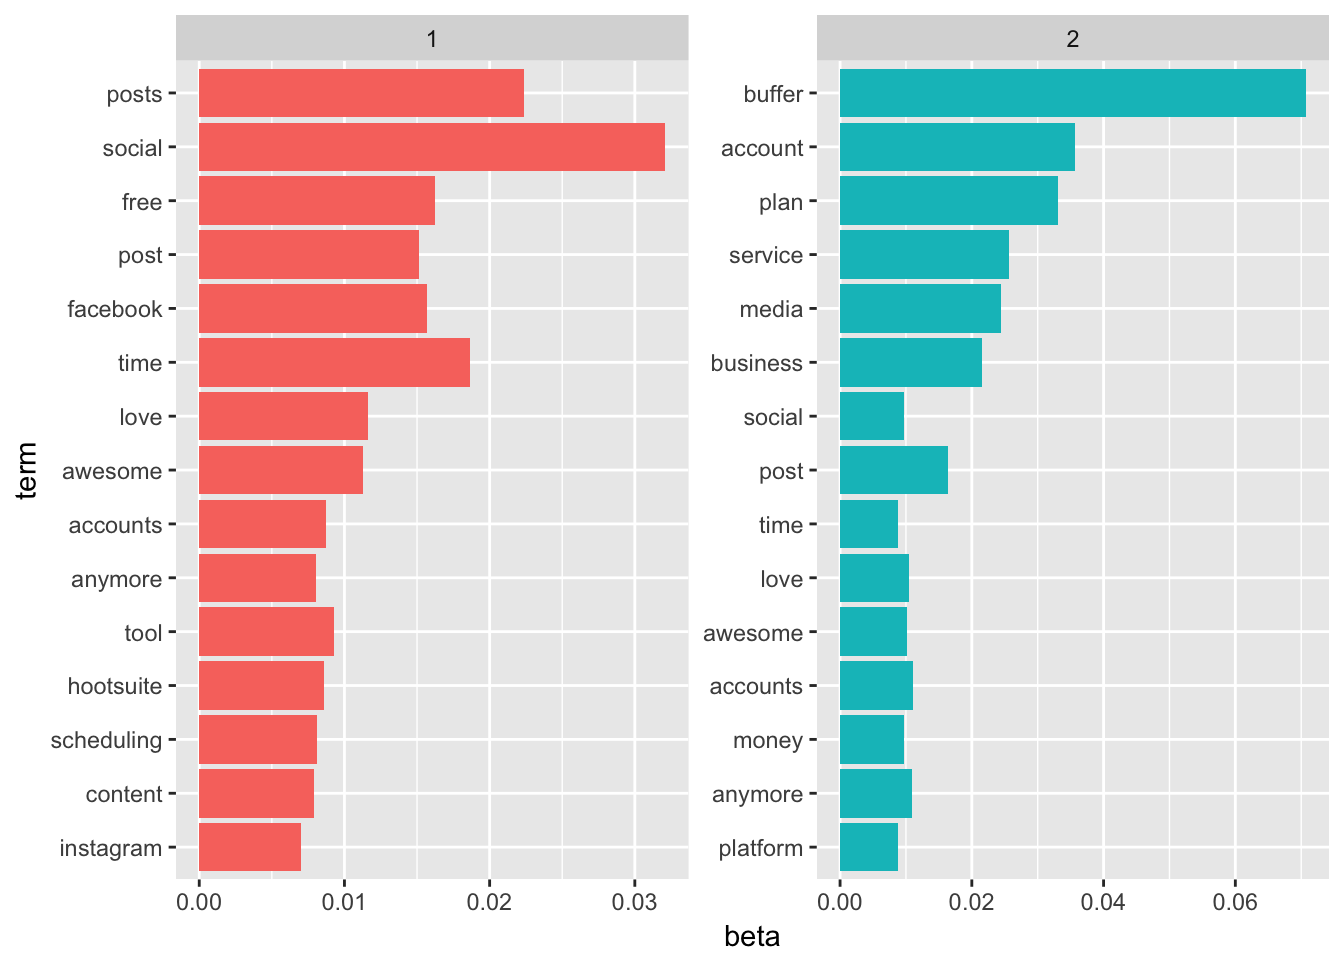
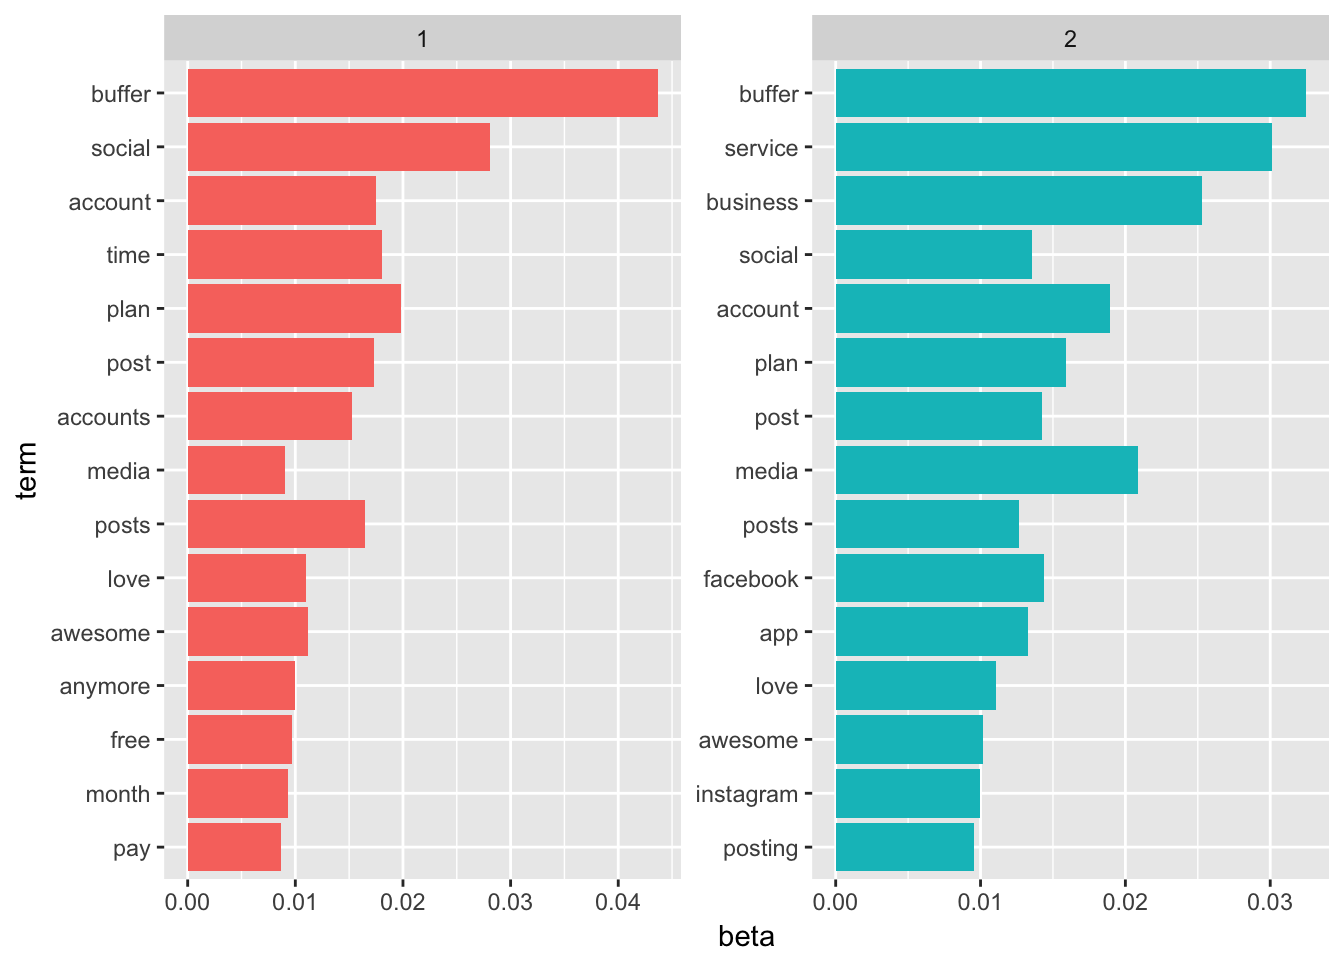
Blog images

diff --git a/content/blog/churn-survey-text-analysis.html b/content/blog/churn-survey-text-analysis.html
@@ -94,12 +94,12 @@ head(segment_words)</code></pre>
 <pre><code>## # A tibble: 6 x 4
 ##                       type    word     n total
 ##                     &lt;fctr&gt;   &lt;chr&gt; &lt;int&gt; &lt;int&gt;
-## 1 awesome_downgrade_survey  buffer   492 12428
-## 2 awesome_downgrade_survey  social   284 12428
-## 3 awesome_downgrade_survey    plan   259 12428
-## 4 awesome_downgrade_survey service   215 12428
-## 5 awesome_downgrade_survey   media   213 12428
-## 6 awesome_downgrade_survey    time   198 12428</code></pre>
+## 1 awesome_downgrade_survey  buffer   492 12440
+## 2 awesome_downgrade_survey  social   284 12440
+## 3 awesome_downgrade_survey    plan   259 12440
+## 4 awesome_downgrade_survey service   215 12440
+## 5 awesome_downgrade_survey   media   213 12440
+## 6 awesome_downgrade_survey    time   198 12440</code></pre>
 <p>There is one row in this data frame for each word-segment combination. <code>n</code> is the number of times that word is used for that segment and total is the total number of words in the segment’s comments. ## The <code>bind_tf_idf</code> function The idea of tf-idf is to find the important words for the content of each collection of comments by decreasing the weight for commonly used words and increasing the weight for words that are not used very much in an entire collection of documents, in this case all NPS comments.</p>
 <blockquote>
 <p>Calculating tf-idf attempts to find the words that are important (i.e., common) in a text, but not too common.</p>
@@ -110,40 +110,40 @@ segment_words &lt;- segment_words %&gt;%
   bind_tf_idf(word, type, n)
 
 segment_words</code></pre>
-<pre><code>## # A tibble: 5,063 x 7
+<pre><code>## # A tibble: 5,072 x 7
 ##                        type    word     n total         tf       idf
 ##                      &lt;fctr&gt;   &lt;chr&gt; &lt;int&gt; &lt;int&gt;      &lt;dbl&gt;     &lt;dbl&gt;
-##  1 awesome_downgrade_survey  buffer   492 12428 0.03958803 0.2231436
-##  2 awesome_downgrade_survey  social   284 12428 0.02285163 0.2231436
-##  3 awesome_downgrade_survey    plan   259 12428 0.02084004 0.2231436
-##  4 awesome_downgrade_survey service   215 12428 0.01729965 0.2231436
-##  5 awesome_downgrade_survey   media   213 12428 0.01713872 0.2231436
-##  6 awesome_downgrade_survey    time   198 12428 0.01593177 0.2231436
-##  7              exit_survey account   196  4417 0.04437401 0.2231436
-##  8 awesome_downgrade_survey   posts   194 12428 0.01560991 0.2231436
-##  9 awesome_downgrade_survey    post   188 12428 0.01512713 0.2231436
-## 10 awesome_downgrade_survey    love   165 12428 0.01327647 0.2231436
-## # ... with 5,053 more rows, and 1 more variables: tf_idf &lt;dbl&gt;</code></pre>
+##  1 awesome_downgrade_survey  buffer   492 12440 0.03954984 0.2231436
+##  2 awesome_downgrade_survey  social   284 12440 0.02282958 0.2231436
+##  3 awesome_downgrade_survey    plan   259 12440 0.02081994 0.2231436
+##  4 awesome_downgrade_survey service   215 12440 0.01728296 0.2231436
+##  5 awesome_downgrade_survey   media   213 12440 0.01712219 0.2231436
+##  6 awesome_downgrade_survey    time   198 12440 0.01591640 0.2231436
+##  7              exit_survey account   196  4419 0.04435393 0.2231436
+##  8 awesome_downgrade_survey   posts   194 12440 0.01559486 0.2231436
+##  9 awesome_downgrade_survey    post   188 12440 0.01511254 0.2231436
+## 10 awesome_downgrade_survey    love   165 12440 0.01326367 0.2231436
+## # ... with 5,062 more rows, and 1 more variables: tf_idf &lt;dbl&gt;</code></pre>
 <p>The <code>idf</code> and <code>tf_idf</code> will be 0 for extremely common words like “the” and “a”. We’ve already removed these stop words from our dataset.</p>
 <p>Let’s look at words with high <code>tf_idf</code> values.</p>
 <pre class="r"><code># Look at high tf_idf value words
 segment_words %&gt;%
   select(-total) %&gt;%
   arrange(desc(tf_idf))</code></pre>
-<pre><code>## # A tibble: 5,063 x 6
+<pre><code>## # A tibble: 5,072 x 6
 ##                                 type      word     n          tf       idf
 ##                               &lt;fctr&gt;     &lt;chr&gt; &lt;int&gt;       &lt;dbl&gt;     &lt;dbl&gt;
 ##  1 business_downgrade_awesome_survey      plan    32 0.054888508 0.2231436
-##  2                       exit_survey   account   196 0.044374010 0.2231436
-##  3                       exit_survey      page    43 0.009735114 0.9162907
-##  4          awesome_downgrade_survey    buffer   492 0.039588027 0.2231436
+##  2                       exit_survey   account   196 0.044353926 0.2231436
+##  3                       exit_survey      page    43 0.009730708 0.9162907
+##  4          awesome_downgrade_survey    buffer   492 0.039549839 0.2231436
 ##  5 business_downgrade_awesome_survey  business    23 0.039451115 0.2231436
-##  6                       exit_survey instagram    75 0.016979851 0.5108256
+##  6                       exit_survey instagram    75 0.016972166 0.5108256
 ##  7 business_downgrade_awesome_survey      jump     3 0.005145798 1.6094379
 ##  8             business_churn_survey    buffer    50 0.032701112 0.2231436
-##  9                       exit_survey    buffer   143 0.032374915 0.2231436
-## 10                       exit_survey       app    54 0.012225492 0.5108256
-## # ... with 5,053 more rows, and 1 more variables: tf_idf &lt;dbl&gt;</code></pre>
+##  9                       exit_survey    buffer   143 0.032360263 0.2231436
+## 10                       exit_survey       app    54 0.012219959 0.5108256
+## # ... with 5,062 more rows, and 1 more variables: tf_idf &lt;dbl&gt;</code></pre>
 <p>Now let’s visualize these high <code>tf_idf</code> words for each segment of responders.</p>
 <p><img src="/blog/churn-survey-text-analysis_files/figure-html/unnamed-chunk-12-1.png" width="672" /></p>
 <p>The words that appear in these graphs appear more frequently in the specific survey type than they do in the other surveys. I think we can ignore “buffer”. The word “plan” seems to appear often in each survey <em>except</em> the exit survey as well.</p>
@@ -167,7 +167,7 @@ head(bigrams$bigram)</code></pre>
 <pre class="r"><code># Count the most common bigrams
 bigrams %&gt;%
   count(bigram, sort = TRUE)</code></pre>
-<pre><code>## # A tibble: 23,601 x 2
+<pre><code>## # A tibble: 23,611 x 2
 ##          bigram     n
 ##           &lt;chr&gt; &lt;int&gt;
 ##  1    not using   273
@@ -180,7 +180,7 @@ bigrams %&gt;%
 ##  8       i have   171
 ##  9   don&#39;t need   169
 ## 10      need to   161
-## # ... with 23,591 more rows</code></pre>
+## # ... with 23,601 more rows</code></pre>
 <p>As we might expect, a lot of the most common bigrams are groups of common words. This is a useful time to use tidyr’s <code>separate()</code>, which splits a column into multiple based on a delimiter. This lets us separate it into two columns, “word1” and “word2”, at which point we can remove cases where either is a stop-word.</p>
 <pre class="r"><code># Separate words in bigrams
 separated &lt;- bigrams %&gt;%
@@ -204,7 +204,7 @@ bigram_counts &lt;- filtered %&gt;%
   count(word1, word2, sort = TRUE)
 
 bigram_counts</code></pre>
-<pre><code>## # A tibble: 14,330 x 3
+<pre><code>## # A tibble: 14,340 x 3
 ##      word1  word2     n
 ##      &lt;chr&gt;  &lt;chr&gt; &lt;int&gt;
 ##  1     not  using   273
@@ -217,7 +217,7 @@ bigram_counts</code></pre>
 ##  8   using buffer    84
 ##  9    love buffer    80
 ## 10   don&#39;t   have    71
-## # ... with 14,320 more rows</code></pre>
+## # ... with 14,330 more rows</code></pre>
 <p>In other analyses, we may want to work with the recombined words. tidyr’s <code>unite()</code> function is the inverse of separate(), and lets us recombine the columns into one.</p>
 <pre class="r"><code># Reunite the words
 bigrams_united &lt;- filtered %&gt;%
@@ -230,7 +230,7 @@ head(bigrams_united$bigram)</code></pre>
 <pre class="r"><code># Find most common bigrams
 bigrams_united %&gt;%
   count(bigram, sort = TRUE)</code></pre>
-<pre><code>## # A tibble: 14,330 x 2
+<pre><code>## # A tibble: 14,340 x 2
 ##          bigram     n
 ##           &lt;chr&gt; &lt;int&gt;
 ##  1    not using   273
@@ -243,7 +243,7 @@ bigrams_united %&gt;%
 ##  8 using buffer    84
 ##  9  love buffer    80
 ## 10   don&#39;t have    71
-## # ... with 14,320 more rows</code></pre>
+## # ... with 14,330 more rows</code></pre>
 <p>A bigram can also be treated as a term in a document in the same way that we treated individual words. For example, we can look at the tf-idf of these trigrams across the surveys. These tf-idf values can be visualized within each segment, just as we did for words earlier.</p>
 <p><img src="/blog/churn-survey-text-analysis_files/figure-html/unnamed-chunk-19-1.png" width="672" /></p>
 <p>I’m seeing a lot of people just not using or not needing Buffer.</p>
@@ -262,7 +262,7 @@ bigrams_united %&gt;%
 
 # Original counts
 bigram_counts</code></pre>
-<pre><code>## # A tibble: 14,330 x 3
+<pre><code>## # A tibble: 14,340 x 3
 ##      word1  word2     n
 ##      &lt;chr&gt;  &lt;chr&gt; &lt;int&gt;
 ##  1     not  using   273
@@ -275,7 +275,7 @@ bigram_counts</code></pre>
 ##  8   using buffer    84
 ##  9    love buffer    80
 ## 10   don&#39;t   have    71
-## # ... with 14,320 more rows</code></pre>
+## # ... with 14,330 more rows</code></pre>
 <p>Let’s create a bigram graph object.</p>
 <pre class="r"><code># filter for only relatively common combinations
 bigram_graph &lt;- bigram_counts %&gt;%
@@ -335,24 +335,24 @@ rowTotals &lt;- apply(dtm , 1, sum)
 dtm_new   &lt;- dtm[rowTotals &gt; 0, ]        
 
 inspect(dtm_new)</code></pre>
-<pre><code>## &lt;&lt;DocumentTermMatrix (documents: 18407, terms: 3362)&gt;&gt;
-## Non-/sparse entries: 18433/61865901
+<pre><code>## &lt;&lt;DocumentTermMatrix (documents: 18420, terms: 3370)&gt;&gt;
+## Non-/sparse entries: 18446/62056954
 ## Sparsity           : 100%
 ## Maximal term length: 21
 ## Weighting          : term frequency (tf)
 ## Sample             :
-##      Terms
-## Docs  account buffer business media plan post posts service social time
-##   199       0      0        0     0    0    0     0       0      0    0
-##   314       0      0        0     0    0    0     0       0      0    0
-##   473       0      0        0     0    0    0     0       0      0    0
-##   711       0      0        0     0    0    0     0       0      0    0
-##   808       0      0        0     0    0    0     0       0      0    0
-##   809       0      0        0     0    0    0     0       0      0    0
-##   830       0      0        0     0    0    0     0       0      0    0
-##   851       0      0        0     0    0    0     0       0      0    0
-##   852       0      0        0     0    0    0     0       0      0    0
-##   872       0      0        0     0    0    0     0       0      0    0</code></pre>
+##       Terms
+## Docs   account buffer business media plan post posts service social time
+##   1024       0      0        0     0    0    0     0       0      0    0
+##   196        0      0        0     0    0    0     0       0      0    0
+##   276        0      0        0     0    0    0     0       0      0    0
+##   532        0      0        0     0    0    0     0       0      0    0
+##   613        0      0        0     0    0    0     0       0      0    0
+##   793        0      0        0     0    0    0     0       0      0    0
+##   8142       0      0        0     0    0    0     0       0      0    0
+##   915        0      0        0     0    0    0     0       0      0    0
+##   944        0      0        0     0    0    0     0       0      0    0
+##   945        0      0        0     0    0    0     0       0      0    0</code></pre>
 <pre class="r"><code># Set a seed so that the output of the model is predictable
 lda &lt;- LDA(dtm_new, k = 2, control = list(seed = 1234))
 lda</code></pre>
@@ -366,20 +366,20 @@ lda</code></pre>
 </blockquote>
 <pre class="r"><code>topics &lt;- tidy(lda, matrix = &quot;beta&quot;)
 topics</code></pre>
-<pre><code>## # A tibble: 6,724 x 3
-##    topic         term         beta
-##    &lt;int&gt;        &lt;chr&gt;        &lt;dbl&gt;
-##  1     1 considerable 6.546733e-05
-##  2     2 considerable 4.311088e-05
-##  3     1     kwantlen 6.964226e-05
-##  4     2     kwantlen 3.896466e-05
-##  5     1        teach 6.001590e-05
-##  6     2        teach 4.852481e-05
-##  7     1      proving 5.065635e-05
-##  8     2      proving 5.781999e-05
-##  9     1  progressing 2.944584e-05
-## 10     2  progressing 7.888462e-05
-## # ... with 6,714 more rows</code></pre>
+<pre><code>## # A tibble: 6,740 x 3
+##    topic        term         beta
+##    &lt;int&gt;       &lt;chr&gt;        &lt;dbl&gt;
+##  1     1 polytechnic 4.239958e-05
+##  2     2 polytechnic 6.596414e-05
+##  3     1    kwantlen 4.035842e-05
+##  4     2    kwantlen 6.799479e-05
+##  5     1         bob 5.258101e-05
+##  6     2         bob 5.583518e-05
+##  7     1  loooonnnng 6.538212e-05
+##  8     2  loooonnnng 4.310002e-05
+##  9     1   extremely 8.000213e-05
+## 10     2   extremely 2.855535e-05
+## # ... with 6,730 more rows</code></pre>
 <p>This has turned the model into a one-topic-per-term-per-row format. For each combination, the model computes the probability of that term being generated from that topic.</p>
 <p>We could use <code>dplyr</code>’s <code>top_n()</code> to find the 10 terms that are most common within each topic.</p>
 <pre class="r"><code># Find top terms

diff --git a/content/area-tags.html b/content/area-tags.html
@@ -92,12 +92,12 @@ convos %&gt;%
 <h3>Length of conversations</h3>
 <p>Bandwidth on the customer advocacy team is somewhat limited, so it may be important to find that which takes up the most amount of time. We can use <code>threads</code>, which counts the number of threads in each particular conversation, to estimate the amount of time that each area tends to take.</p>
 <p>This may be a crude approach, as threads are not necessarily equal – billing issues may very well be more complex and time-consuming than onboarding issues. Let’s look at the distribution of threads for each area tag.</p>
-<pre><code>## Warning: Removed 2244 rows containing non-finite values (stat_density).</code></pre>
+<pre><code>## Warning: Removed 2248 rows containing non-finite values (stat_density).</code></pre>
 <p><img src="content/area-tags_files/figure-html/unnamed-chunk-9-1.png" width="672" /></p>
 <p><img src="content/area-tags_files/figure-html/unnamed-chunk-10-1.png" width="672" /></p>
 <p>The distribution of thread count is quite similar for each tag. Most conversations will only have two, I suppose the initial request and the response. The <code>social media advice</code> tag seems to have a higher-than-average proportion of conversations with only two threads. The <code>org-maintenance</code> tag seems to have a higher proportion of conversations that have a higer number of threads, as does the <code>user-maintenance</code> tag.</p>
 <p>The <code>billing</code> tag also seems to have a higher proportion of conversations with more than two threads. Let’s make another visualization to try to understand the distribution of threads for each area.</p>
-<pre><code>## Warning: Removed 2244 rows containing non-finite values (stat_boxplot).</code></pre>
+<pre><code>## Warning: Removed 2248 rows containing non-finite values (stat_boxplot).</code></pre>
 <p><img src="content/area-tags_files/figure-html/unnamed-chunk-11-1.png" width="672" /></p>
 <p>The areas with the highest <em>median</em> thread count are <code>API</code>, <code>org-maintenance</code>, and <code>org-setup</code>.</p>
 </div>
